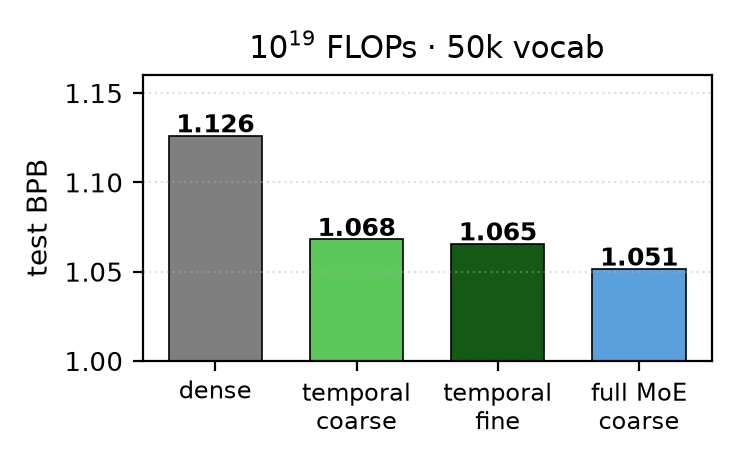
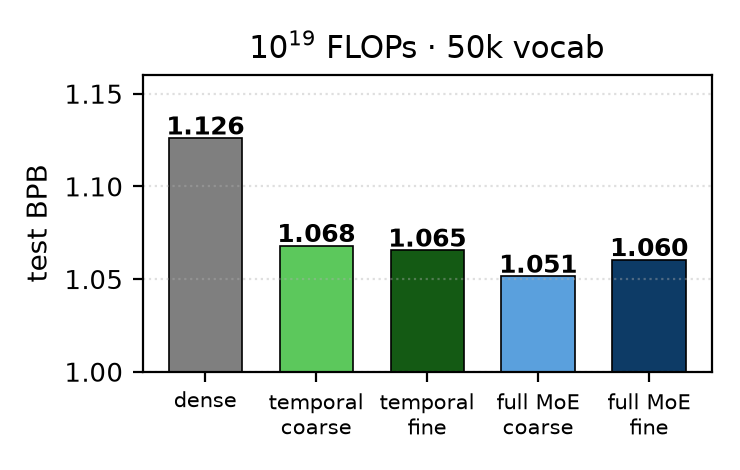
isoFLOP 1e19 panel: add the fine full MoE (1.0604); sweep_eval lenient load for July checkpoints; committed unmask/impose producer chain for 1e19

diff --git a/analysis/plots/plot_isoflop_panels.py b/analysis/plots/plot_isoflop_panels.py
@@ -14,8 +14,9 @@ Values = end-of-training TEST evals (canonical; see results/ablations/FINDINGS.m
   on the h100 split with its local dense floor —
   flame192_leftflank_1e18.csv, flame38m_1e18_cells.csv, flame512_1e18_rightflank.csv.
   x = non-embed active params (6.88/12.19/48.50M from the run configs).
-- 1e19: BPB = CE/2.9780, t19_1e19_curves.csv (one shape; bars). No fine full-MoE cell was trained
-  at 1e19 (1e18 already showed fine-graining hurts the full MoE; temporal is the fine contender).
+- 1e19: BPB = CE/2.9780, t19_1e19_curves.csv (one shape; bars). The fine full-MoE cell was added
+  on 2026-09-03 (moe_fine_g3_1e19, 1.0604): it beats the fine temporal model by 0.005 BPB, a third
+  of the coarse pair's gap, so the 1e19 panel now shows both grains for both paradigms.
 
 Outputs results/phase0/figures/isoflop_panel_1e{16,17,18,19}_nocaption.png (paper tiles) and a
 captioned 2x2 overview isoflop_panels_all.png for the repo.
@@ -74,7 +75,8 @@ P18 = {
 # tmp_c {1.3128,1.3111,1.3128}  moe_c {1.3158,1.3197,1.3169}
 # tmp_f {1.3354,1.3339,1.3323}  moe_f {1.3461,1.3489,1.3483}
 P19 = [("dense", 1.1260, DENSE_C), ("temporal\ncoarse", 1.0680, TMP_COARSE),
-       ("temporal\nfine", 1.0655, TMP_FINE), ("full MoE\ncoarse", 1.0514, MOE_COARSE)]
+       ("temporal\nfine", 1.0655, TMP_FINE), ("full MoE\ncoarse", 1.0514, MOE_COARSE),
+       ("full MoE\nfine", 1.0604, MOE_FINE)]   # moe_fine_g3_1e19, trained 2026-09-03 (t19_1e19_curves.csv)
 
 STYLE = [("dense", DENSE_C, 1.4), ("moe_c", MOE_COARSE, 1.9), ("moe_f", MOE_FINE, 1.9),
          ("tmp_c", TMP_COARSE, 1.9), ("tmp_f", TMP_FINE, 1.9)]
@@ -120,7 +122,7 @@ def bar_panel(ax, title, ylabel=True):
     ax.grid(True, axis="y", ls=":", alpha=0.4)
     ax.set_title(title)
     if ylabel: ax.set_ylabel("test BPB")
-    ax.tick_params(axis="x", labelsize=8.5)
+    ax.tick_params(axis="x", labelsize=7.5)
 
 
 # paper tiles (one file per budget, no baked caption)

diff --git a/analysis/probes/sweep_eval.py b/analysis/probes/sweep_eval.py
@@ -69,6 +69,17 @@ def _install():
 
     orig_eval_print = T.evaluate_and_print_results
 
+    # The 2025-07 checkpoints predate the layernorm `_extra_state` entries Transformer Engine 2.16
+    # registers; every weight is present (run with --dist-ckpt-strictness log_all to see the
+    # exact key list), so load the model non-strictly. Same treatment as substitution_eval.py.
+    orig_load = T.load_checkpoint
+
+    def lenient_load(*a, **kw):
+        kw["strict"] = False
+        return orig_load(*a, **kw)
+
+    T.load_checkpoint = lenient_load
+
     def patched(prefix, forward_step_func, data_iterator, model, iteration,
                 process_non_loss_data_func, config, verbose=False, write_to_tensorboard=True,
                 **kw):
